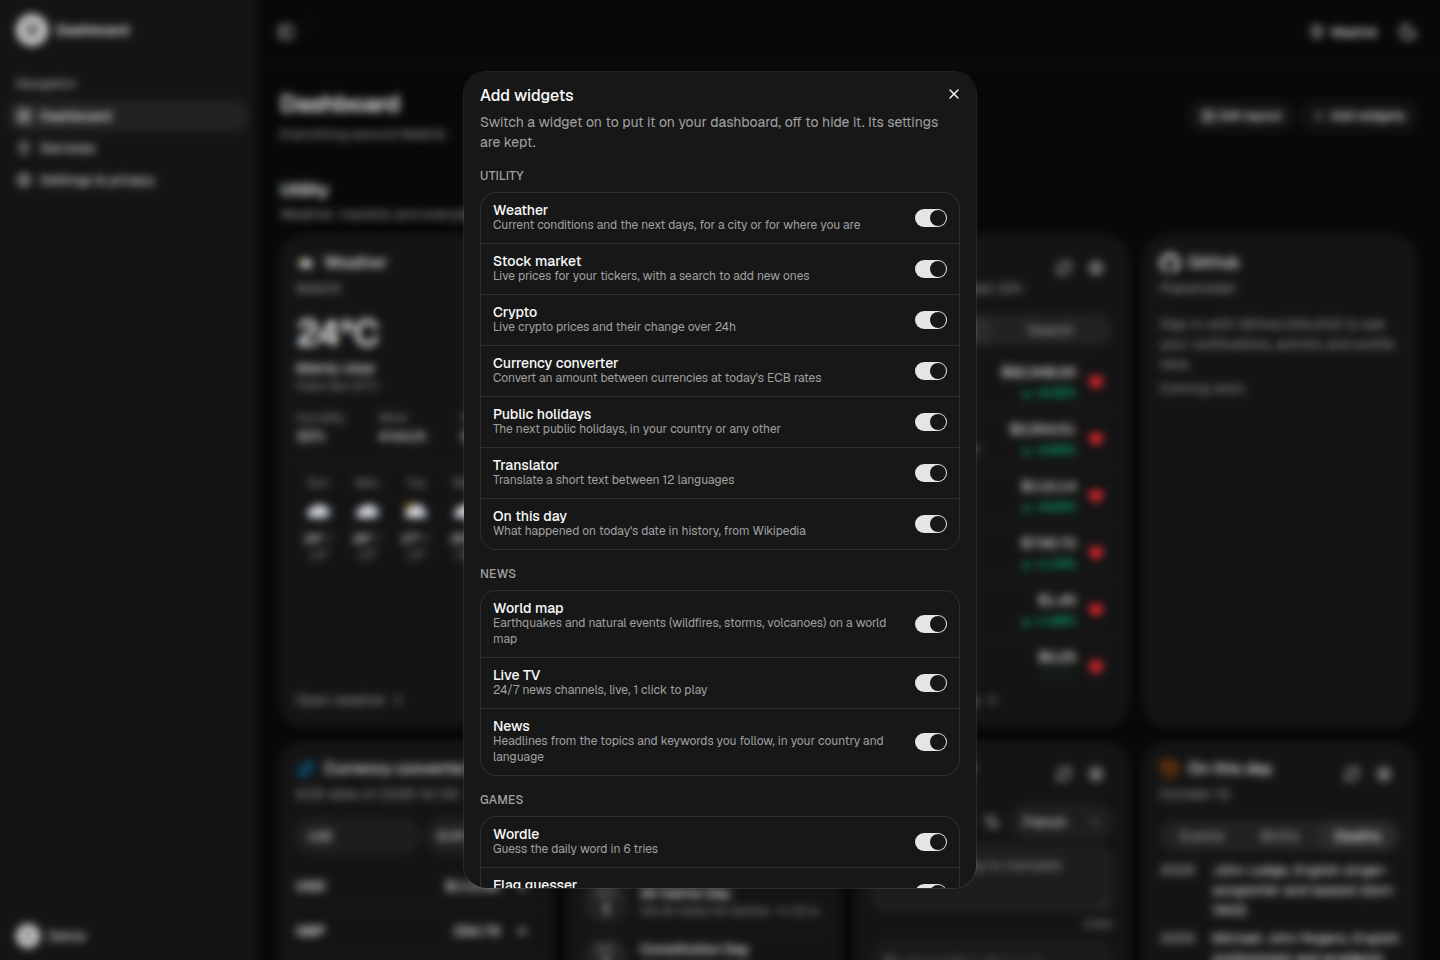
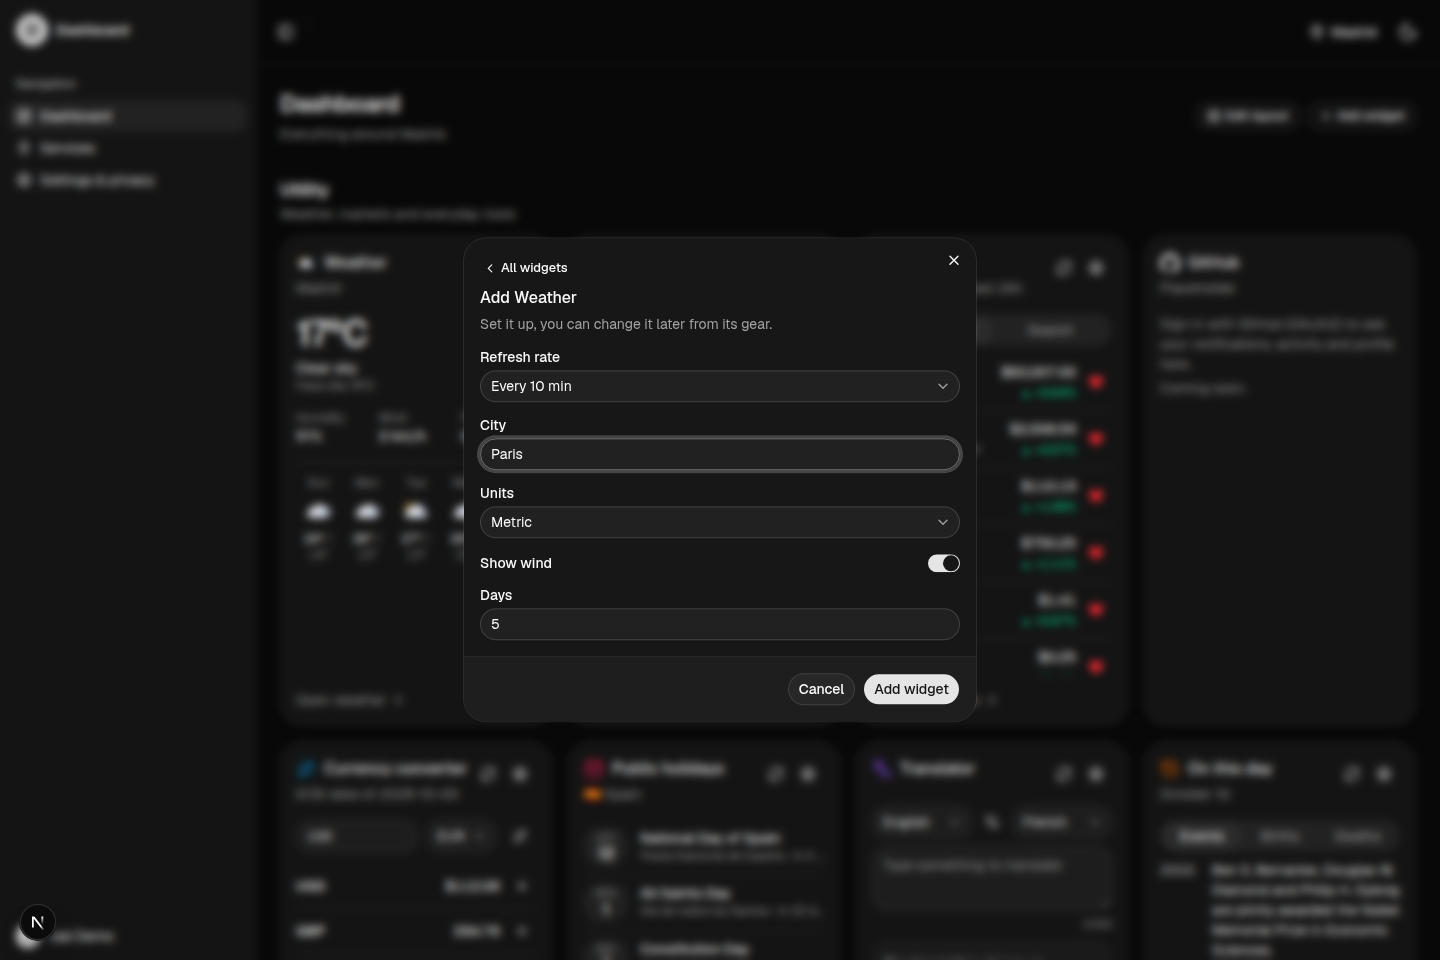
fix: rdme w/ the architecture and widget fetch diagrams, github, log in first, add widget, internal audit removed

diff --git a/README.md b/README.md
@@ -19,11 +19,15 @@ stocks and coins, the news you follow, today's puzzles, and more.
 
 ## Key features
 
-- **14 widgets from 5 services**, each with its own options, set from the gear on the card.
+- **16 widgets from 6 services**, each with its own options, set from the gear on the card.
+- **Your GitHub, through OAuth2:** connect your GitHub account on the Services page to see your
+  unread notifications and your public repositories. Read only; the token is stored encrypted and
+  disconnecting deletes it.
 - **Automatic refresh:** one timer drives the whole page; each widget refreshes at the rate you pick
   (never below the widget's minimum), and nothing runs while the tab is hidden.
-- **Your layout:** drag widgets to reorder them inside their section (mouse or keyboard), hide the
-  ones you don't want, and add them back from "Add widgets".
+- **Your layout:** add any widget as many times as you want, each copy with its own settings (a
+  weather for Madrid and one for Paris), drag widgets to reorder them inside their section (mouse or
+  keyboard), and remove the ones you don't want, with an undo.
 - **Saved per user:** widgets, options, order, location, text size and theme live in the database.
 - **Your location, with consent:** the weather, holidays and news follow your city. A city you pick
   always wins; your connection is only used to guess it after you say yes.
@@ -70,19 +74,21 @@ Wikipedia (on this day), Google News (headlines), USGS and NASA EONET (world eve
    in. Next time, log in with your username or your email. **Continue with Google** appears when the
    server has a Google client.
 2. **Open the dashboard.** Your widgets are grouped in three sections: Utility, News and Games.
-   Without an account you see the default widgets, read-only.
+   Everything except the privacy notice needs a confirmed account.
 3. **Set your location** with the pin in the top bar: search a city, or use your device position
    (you see what it is used for before your browser asks). Or answer "yes" to the question on the
    dashboard to let us guess your city from your connection.
 4. **Configure a widget** with its gear: its refresh rate and its options. Some options are on the
    card itself: heart a stock or a coin, pick a currency, a language or a TV channel.
-5. **Arrange the page** with **Edit layout**: drag a card, or tab to it and use Space and the arrows.
-   The cross hides a card. **Add widgets** turns any widget on or off.
-6. **Settings & privacy** (sidebar): location, text size, theme, download your data, delete your
+5. **Add a widget** with **Add widget**: pick one, set its options and refresh rate, add it. The same
+   widget can be added more than once.
+6. **Arrange the page** with **Edit layout**: drag a card, or tab to it and use Space and the arrows.
+   The cross removes a card; **Undo** puts it back for a few seconds.
+7. **Settings & privacy** (sidebar): location, text size, theme, download your data, delete your
    account (confirmed by an email link), and the privacy notice.
-7. **Services** (sidebar): what each service needs, and the form for your own API key.
+8. **Services** (sidebar): what each service needs, and the form for your own API key.
 
-8. **Log out** from your name at the bottom of the sidebar.
+9. **Log out** from your name at the bottom of the sidebar.
 
 ## Screenshots
 
@@ -93,10 +99,10 @@ Wikipedia (on this day), Google News (headlines), USGS and NASA EONET (world eve
   </tr>
   <tr>
     <td width="50%"><img src="assets/screenshots/widget-settings.png" alt="A widget's settings window with the refresh rate and its options"><br><sub><b>Widget settings:</b> refresh rate and options, generated from the widget's schema</sub></td>
-    <td width="50%"><img src="assets/screenshots/edit-layout.png" alt="Edit layout mode with draggable cards and a cross to hide each one"><br><sub><b>Edit layout:</b> drag to reorder, the cross hides a card</sub></td>
+    <td width="50%"><img src="assets/screenshots/edit-layout.png" alt="Edit layout mode with draggable cards and a cross to remove each one"><br><sub><b>Edit layout:</b> drag to reorder, the cross removes a card</sub></td>
   </tr>
   <tr>
-    <td width="50%"><img src="assets/screenshots/add-widgets.png" alt="Add widgets window with an on/off switch per widget"><br><sub><b>Add widgets:</b> one switch per widget, settings kept</sub></td>
+    <td width="50%"><img src="assets/screenshots/add-widgets.png" alt="Add widget window, configuring a second weather widget for Paris"><br><sub><b>Add widget:</b> pick a widget, set it up, add it, as many times as you want</sub></td>
     <td width="50%"><img src="assets/screenshots/services.png" alt="Services page with each service's status and the own key form"><br><sub><b>Services:</b> what each one needs, and your own API key</sub></td>
   </tr>
   <tr>
@@ -143,7 +149,7 @@ npm run dev
 
 `npm run setup` creates `.env.local` (with a fresh `CREDENTIALS_KEY`), starts Postgres and Mailpit in
 Docker, applies the migrations and seeds two accounts. The emails the app sends locally (account
-confirmation, account deletion) land in the Mailpit inbox at http://localhost:8025. It is safe to rerun, and it is also how you start the
+confirmation, account deletion) land in the Mailpit inbox at http://localhost:8026. It is safe to rerun, and it is also how you start the
 database again after a reboot. To stop it: `docker compose -f docker-compose.dev.yml down`.
 
 | Account | Email                  | Password              |
@@ -177,6 +183,7 @@ each production build (`vercel.json`). The production environment needs:
 | `SENDGRID_API_KEY`, `MAIL_FROM`            | Sends the confirmation emails. `MAIL_FROM` is the verified sender |
 | `FINNHUB_API_KEY`                          | The app's own stock market key                                    |
 | `GOOGLE_CLIENT_ID`, `GOOGLE_CLIENT_SECRET` | Optional, "Continue with Google"                                  |
+| `GITHUB_CLIENT_ID`, `GITHUB_CLIENT_SECRET` | Optional, the GitHub widgets (OAuth app on github.com)            |
 
 ### Tests
 
@@ -206,14 +213,14 @@ outside service faked by Mock Service Worker, so the tests never touch your data
 
 ## Technology and specifications
 
-| Layer    | Technology                                                                      |
-| -------- | ------------------------------------------------------------------------------- |
-| Frontend | Next.js 16 (App Router), React 19, Tailwind CSS 4, shadcn/ui, dnd-kit, d3-geo   |
-| API      | Hono with `@hono/zod-openapi`, mounted inside the Next.js app under `/api`      |
-| Data     | PostgreSQL with Prisma 7 (Neon on Vercel, a container in Docker)                |
-| Accounts | better-auth (email and password, email confirmation, OAuth for linked accounts) |
-| Tests    | Vitest and Mock Service Worker                                                  |
-| Hosting  | Vercel (production), Docker Compose (the graded stack, port 8080)               |
+| Layer    | Technology                                                                           |
+| -------- | ------------------------------------------------------------------------------------ |
+| Frontend | Next.js 16 (App Router), React 19, Tailwind CSS 4, shadcn/ui, dnd-kit, d3-geo        |
+| API      | Hono with `@hono/zod-openapi`, mounted inside the Next.js app under `/api`           |
+| Data     | PostgreSQL with Prisma 7 (Neon on Vercel, a container in Docker)                     |
+| Accounts | better-auth (email and password, email confirmation, Google sign-in, GitHub linking) |
+| Tests    | Vitest and Mock Service Worker                                                       |
+| Hosting  | Vercel (production), Docker Compose (the graded stack, port 8080)                    |
 
 **How it works**
 
@@ -227,10 +234,23 @@ outside service faked by Mock Service Worker, so the tests never touch your data
 - **Shared cache:** in memory, then in a database table shared by every server instance; identical
   requests share one outside call; each widget sets how long its answer stays fresh.
 - **Rate limit:** 150 widget requests a minute per user (or IP), with `429` and `Retry-After` above it.
-- **Security:** every query is scoped to the signed-in user, errors never leak internals, cookies are
-  `HttpOnly`, user API keys are sealed with AES-256-GCM, and the IP location needs consent (GDPR).
+- **Security:** every page and widget request needs a confirmed account, every query is scoped to the
+  signed-in user, errors never leak internals, cookies are `HttpOnly`, user API keys and GitHub tokens
+  are encrypted in the database, and the IP location needs consent (GDPR).
 - **The timer:** one schedule for the whole page, a tick every second; each widget runs at its saved
   rate, with a small random delay so widgets don't all refresh at once.
+
+## Design
+
+**The whole system.** One Next.js app: the browser only talks to our API, the server reads the
+database, keeps a shared cache and calls the outside services.
+
+![Architecture: the browser, our Next.js and Hono server, Postgres and the outside services](assets/diagrams/architecture.png)
+
+**One widget fetch.** Every card gets its data the same way: the options are checked, the cache
+answers, and the outside service is only called on a miss.
+
+![Sequence of one widget fetch, from the card through the API, the pipeline and the cache to the outside service](assets/diagrams/widget-fetch.png)
 
 ## Project structure
 
